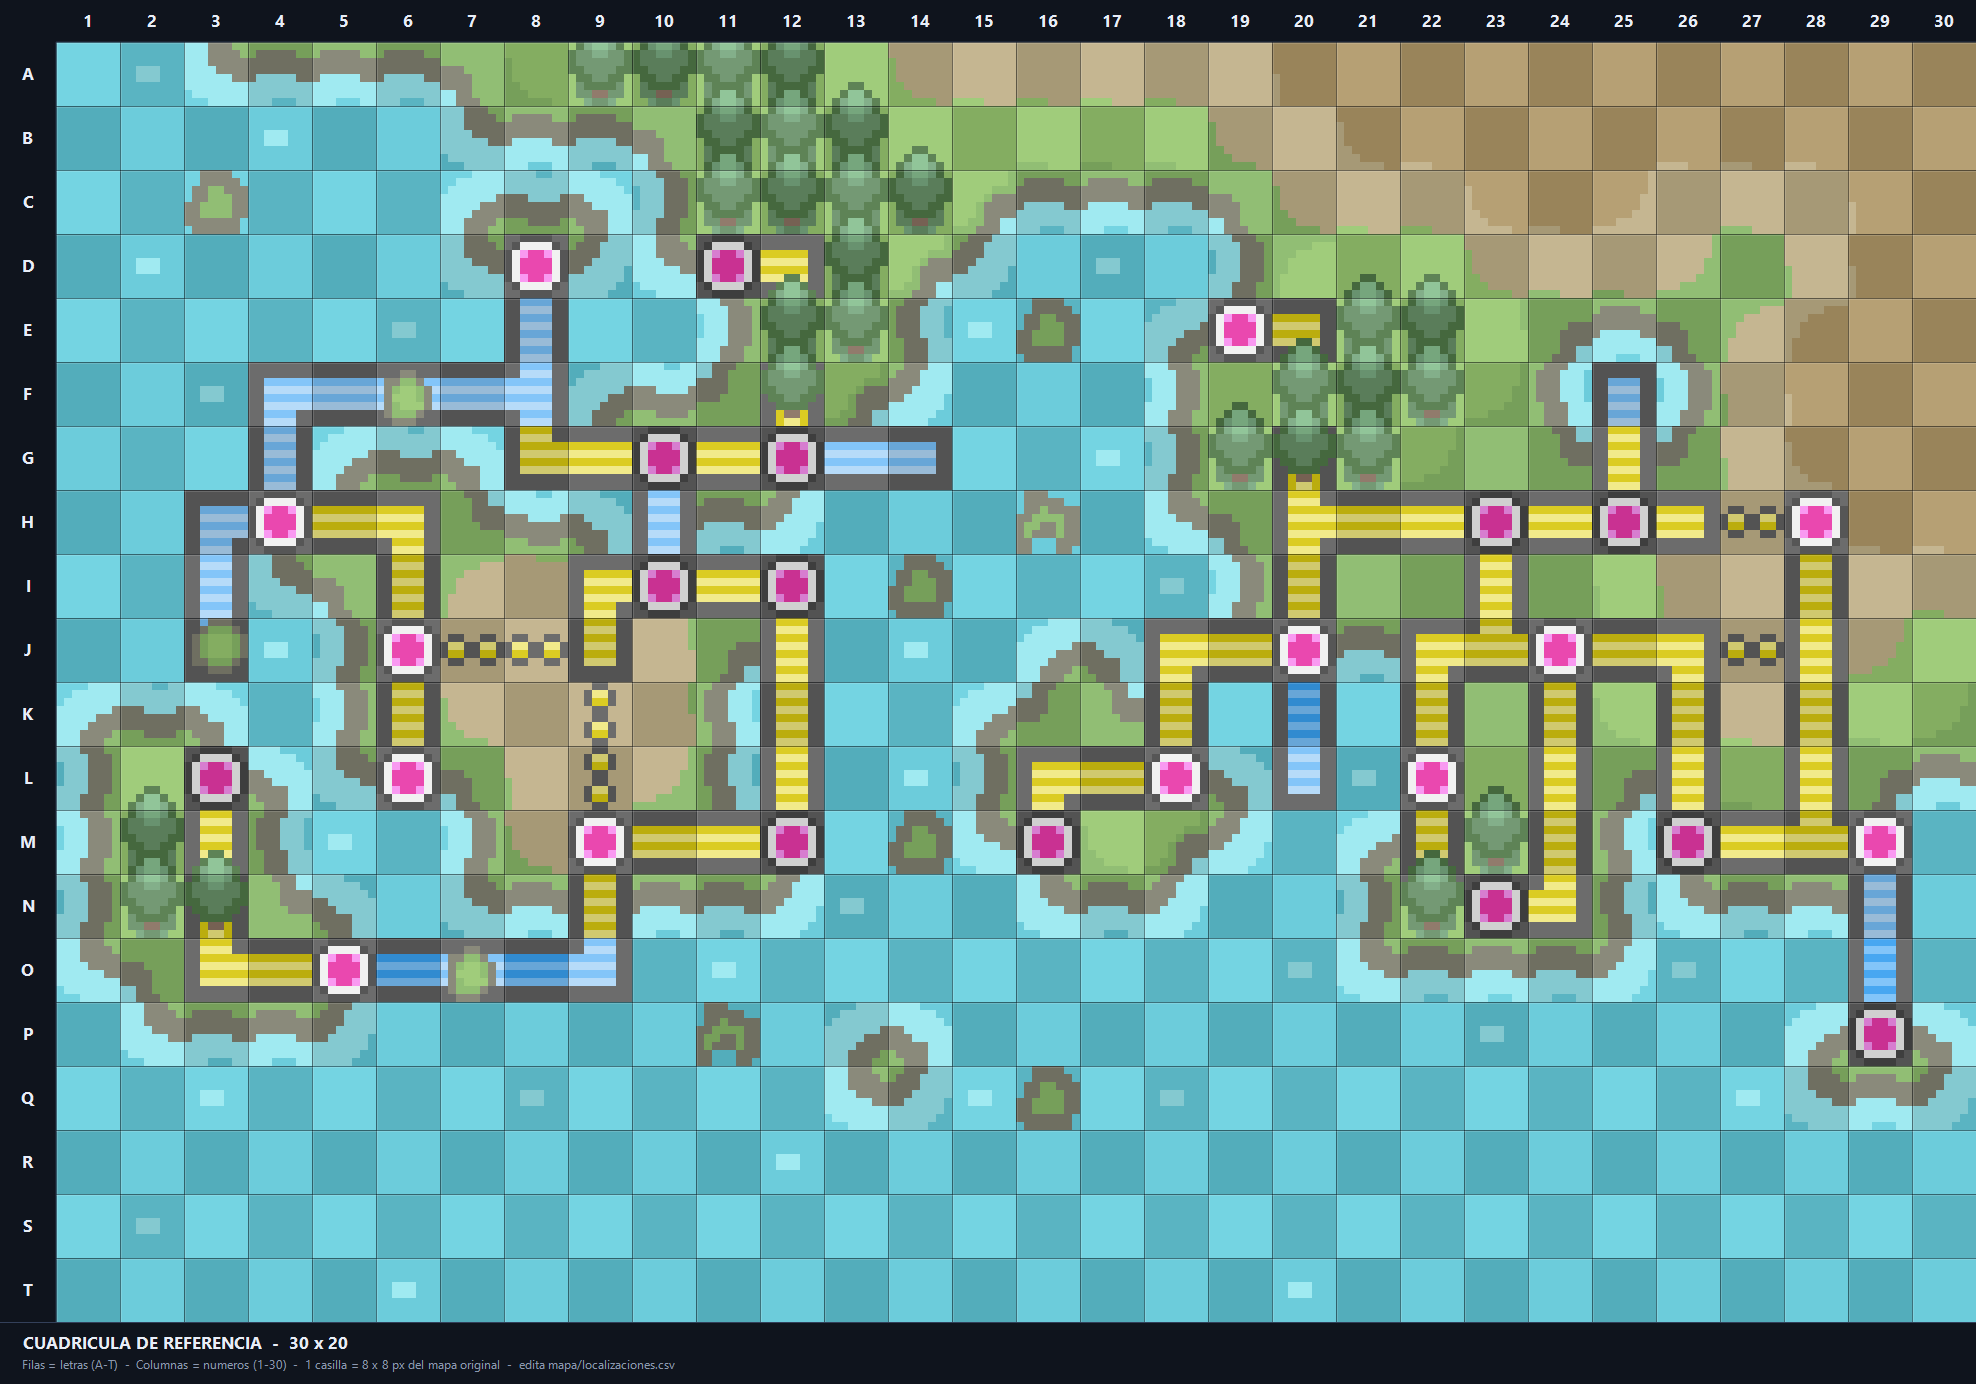
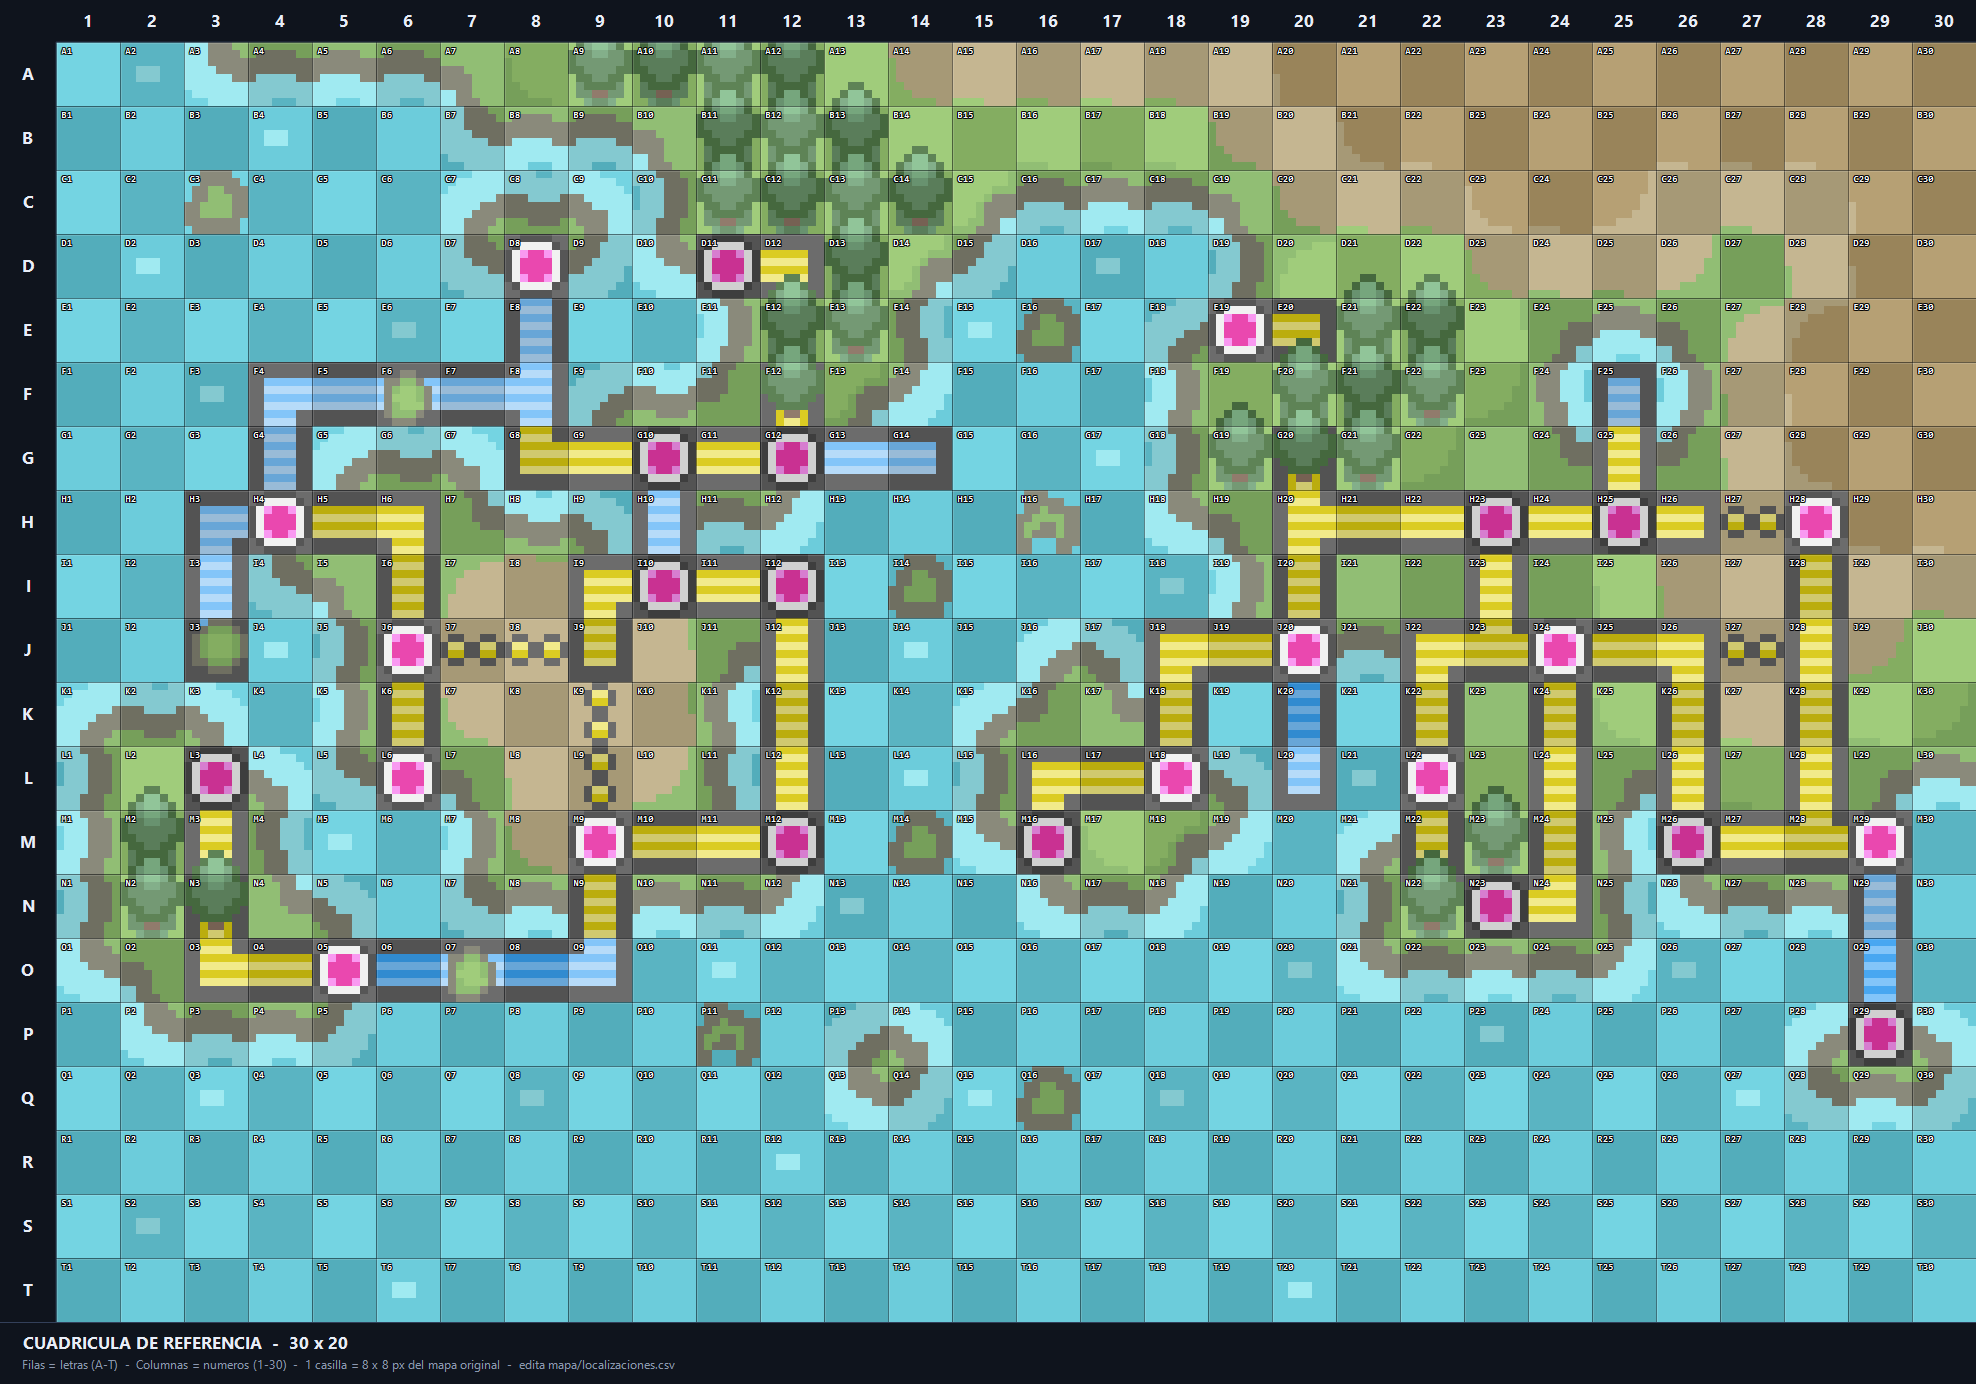
Referencia del mapa: coordenadas A1 dentro de cada casilla

diff --git a/README.md b/README.md
@@ -59,7 +59,7 @@ El script usa `team-card.html` y Microsoft Edge en modo headless para renderizar
 
 Las etiquetas del mapa son aproximadas. Para revisarlas:
 
-1. Abre `mapa/cuadricula.png`: es el mapa con una cuadrícula de ajedrez de **30×20**, con las **filas en letras (A–T)** y las **columnas en números (1–30)**.
+1. Abre `mapa/cuadricula.png`: es el mapa con una cuadrícula de ajedrez de **30×20**, con las **filas en letras (A–T)**, las **columnas en números (1–30)** y la etiqueta de cada casilla (`A1`, `B7`…) escrita dentro.
 2. Edita `mapa/localizaciones.csv` (600 filas). La columna `zona_actual` muestra lo que enseña ahora la app; escribe el nombre real en `zona_correcta`. Si una casilla ya es correcta, deja `zona_correcta` vacía.
 3. En el CSV, `fila` es la letra (A–T) y `columna` el número (1–30), igual que en la imagen.
 4. Cuando esté completo, se puede regenerar el mapa usando esa columna.
